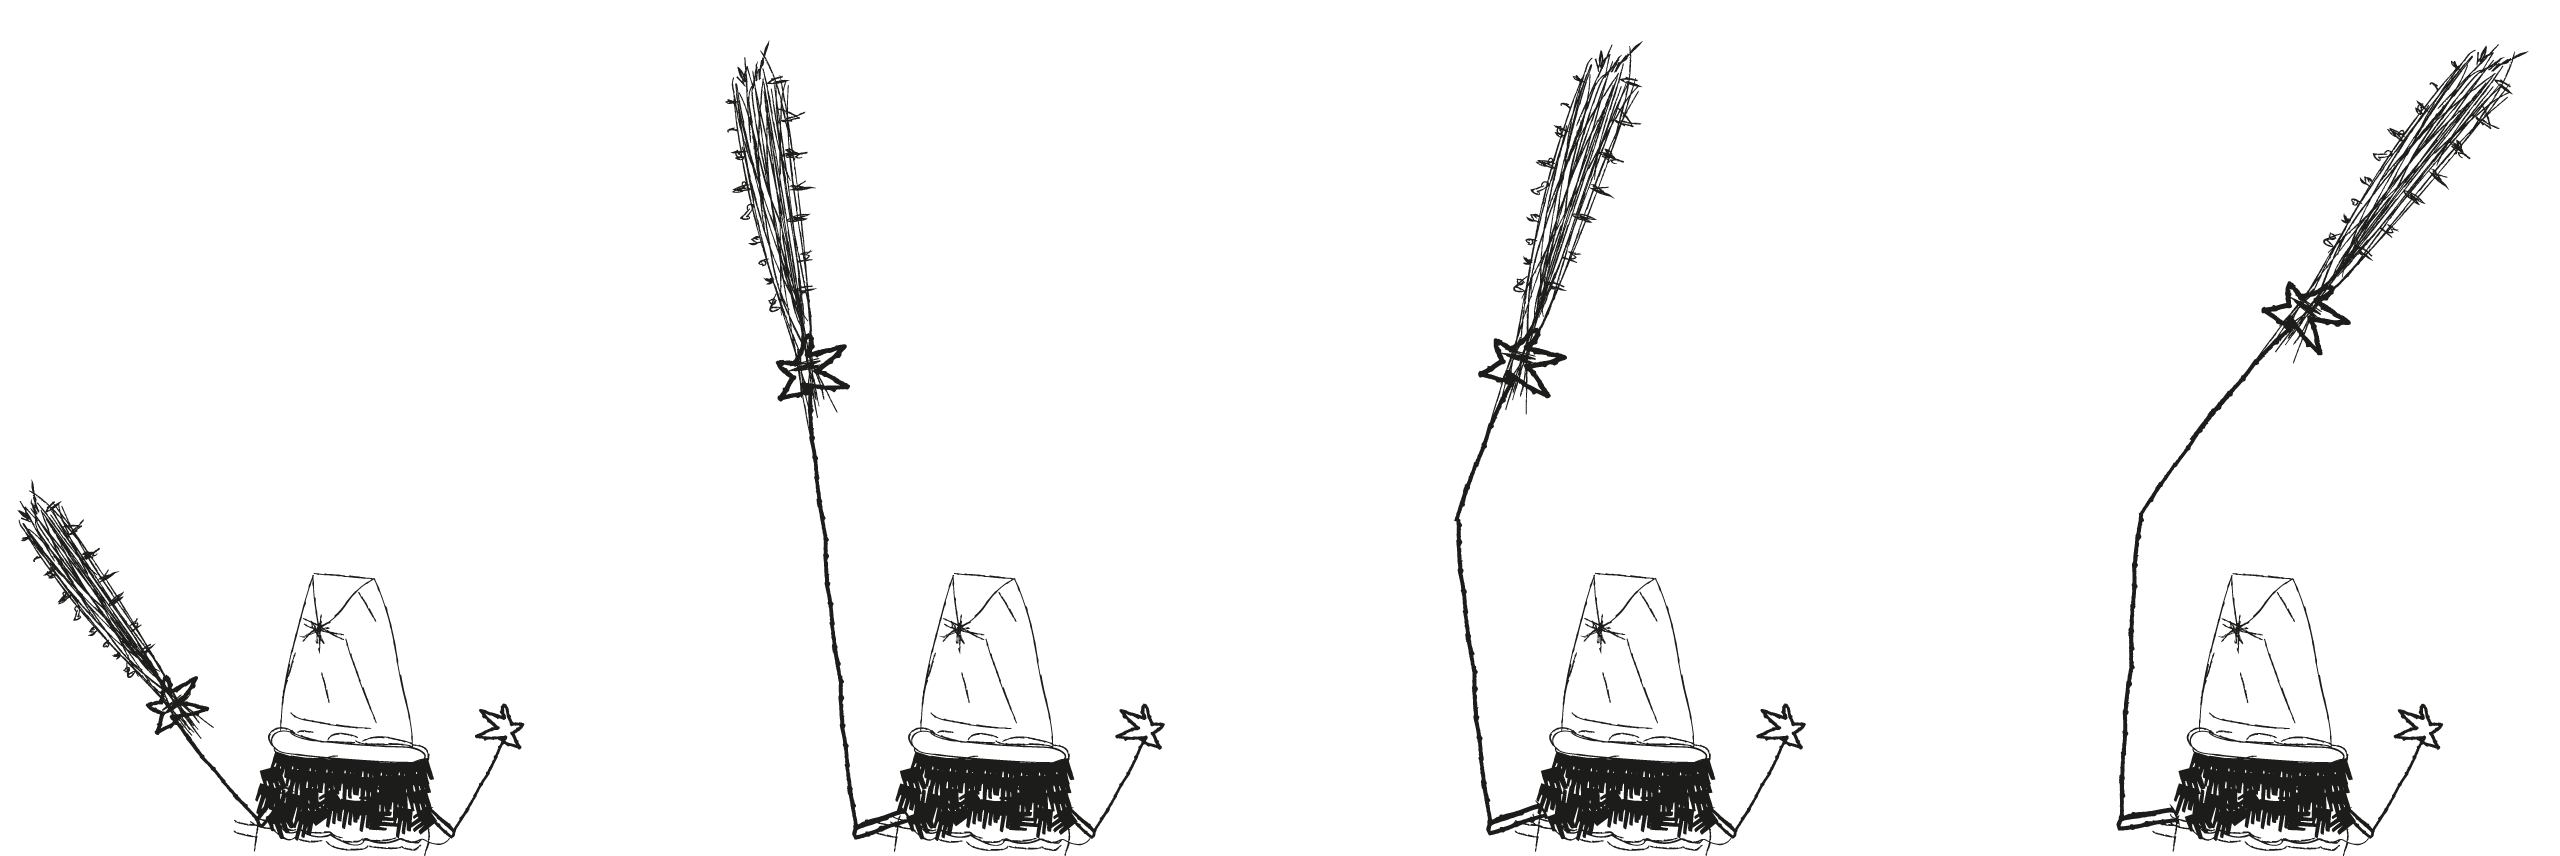
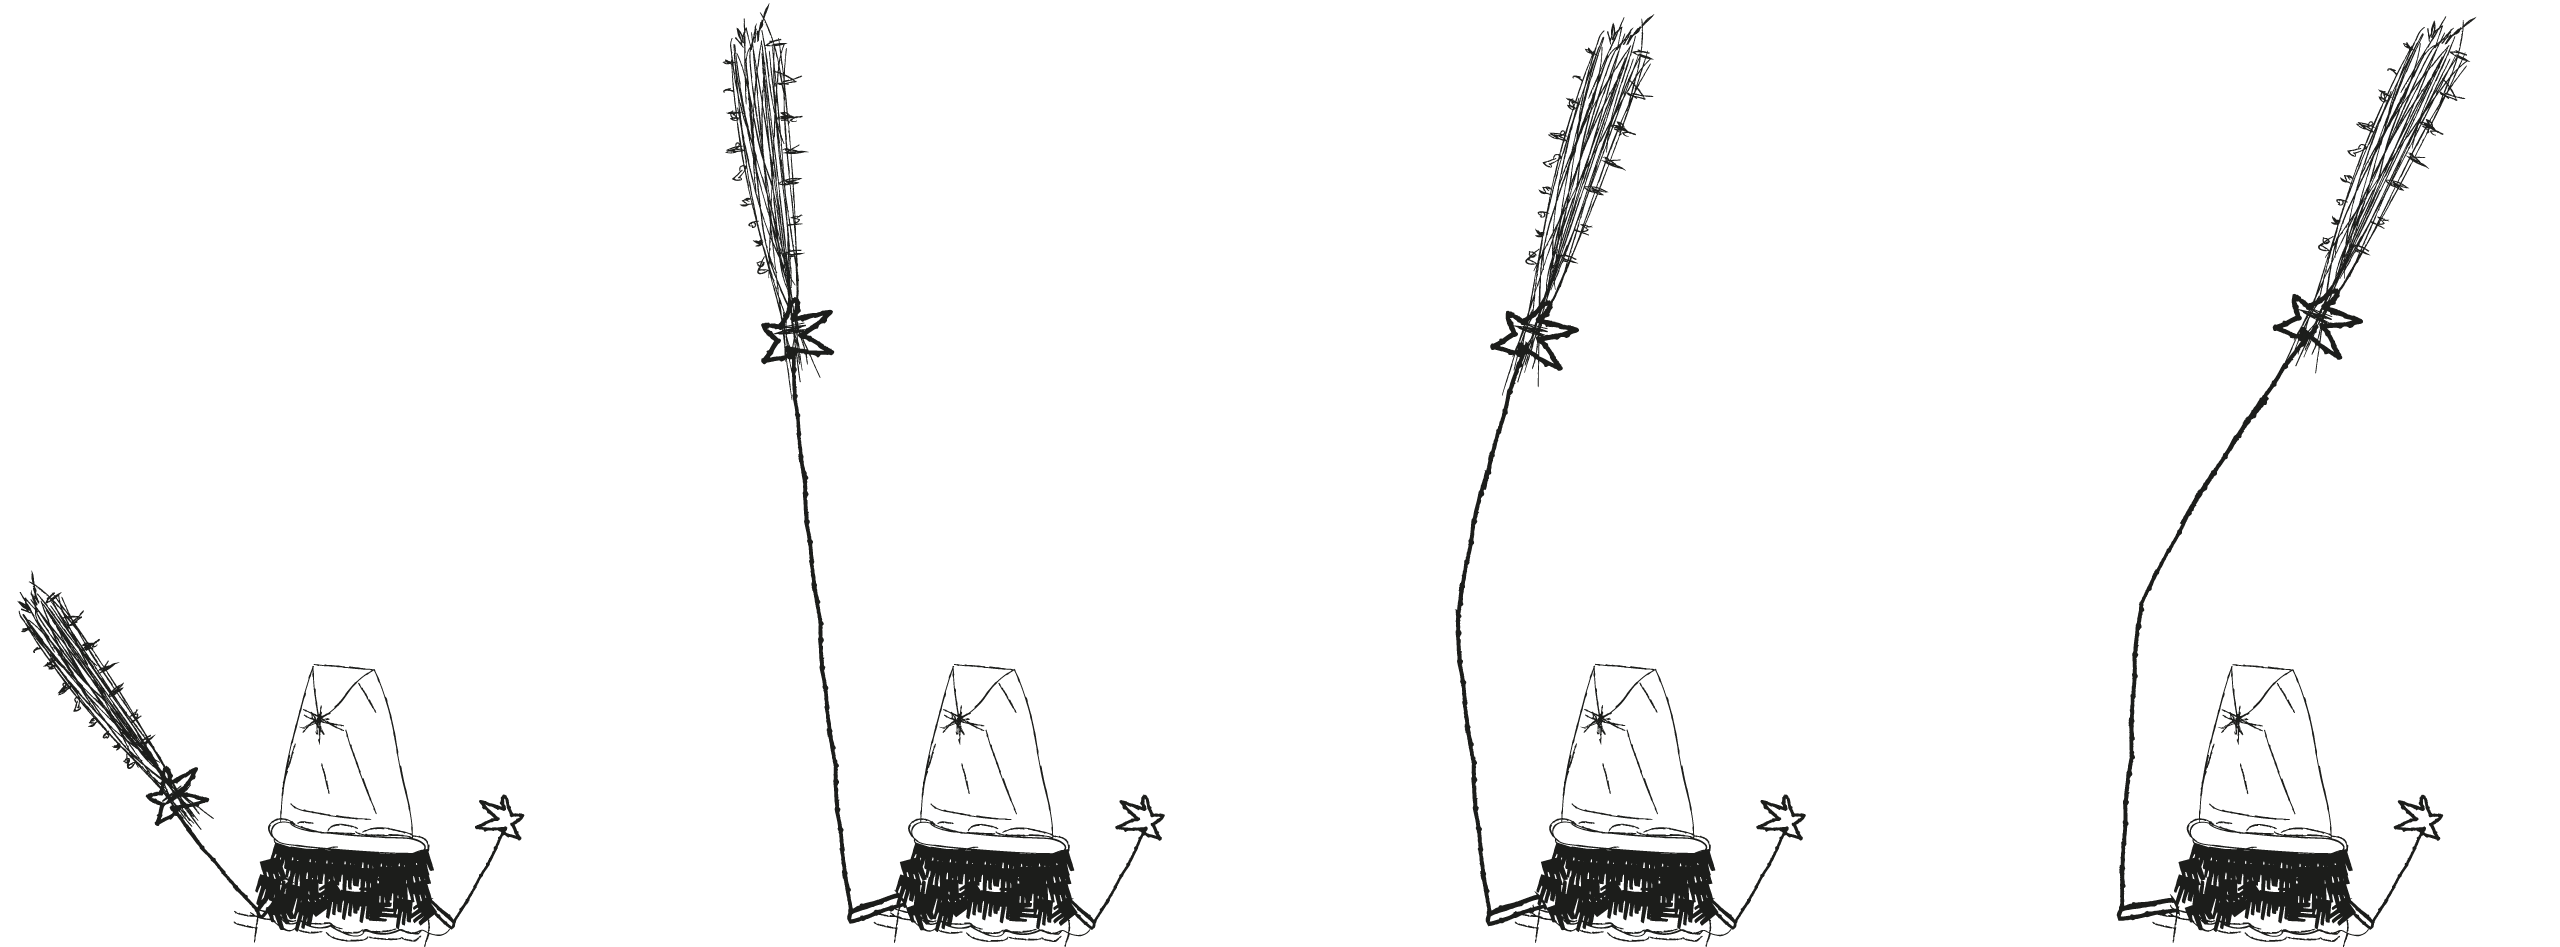
ANpassung an größere geräte

diff --git a/src/states/loading.js b/src/states/loading.js
@@ -17,7 +17,7 @@ export class LoadingState extends Phaser.State {
 	    this.game.load.image("top_field", "assets/images/top_0x0.png");
 
 	    this.game.load.spritesheet("geldsack", "assets/images/geldsack.png", 80, 80, 7);
-	    this.game.load.spritesheet("knecht", "assets/images/bottom_knecht_ruprecht.png", 640, 856, 4);
+	    this.game.load.spritesheet("knecht", "assets/images/bottom_knecht_ruprecht.png", 640, 947, 4);
 	    this.game.load.spritesheet("ratz", "assets/images/ratz.png", 220, 190, 2);
 	    this.game.load.spritesheet("juergen", "assets/images/juergen.png", 220, 190, 3);
 
